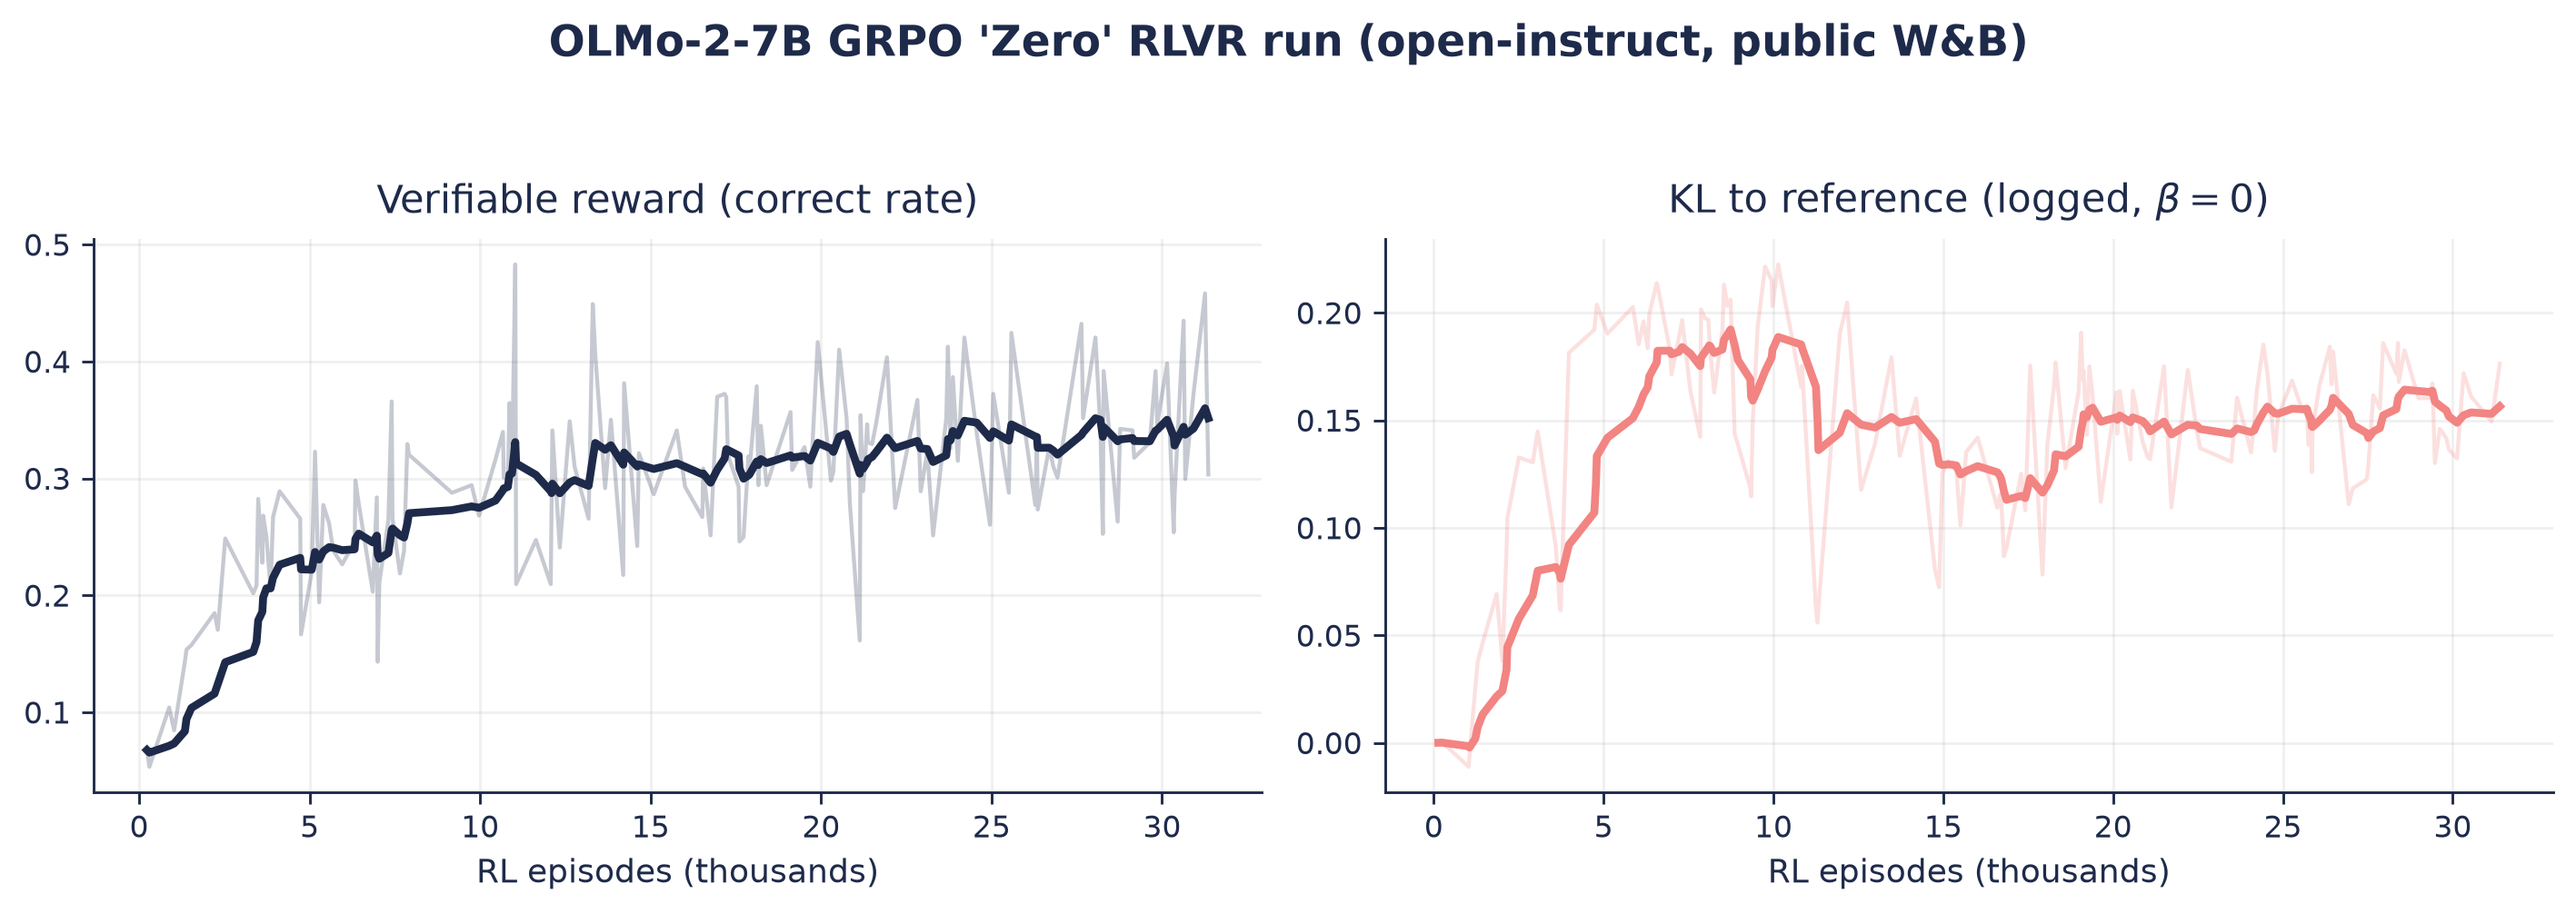
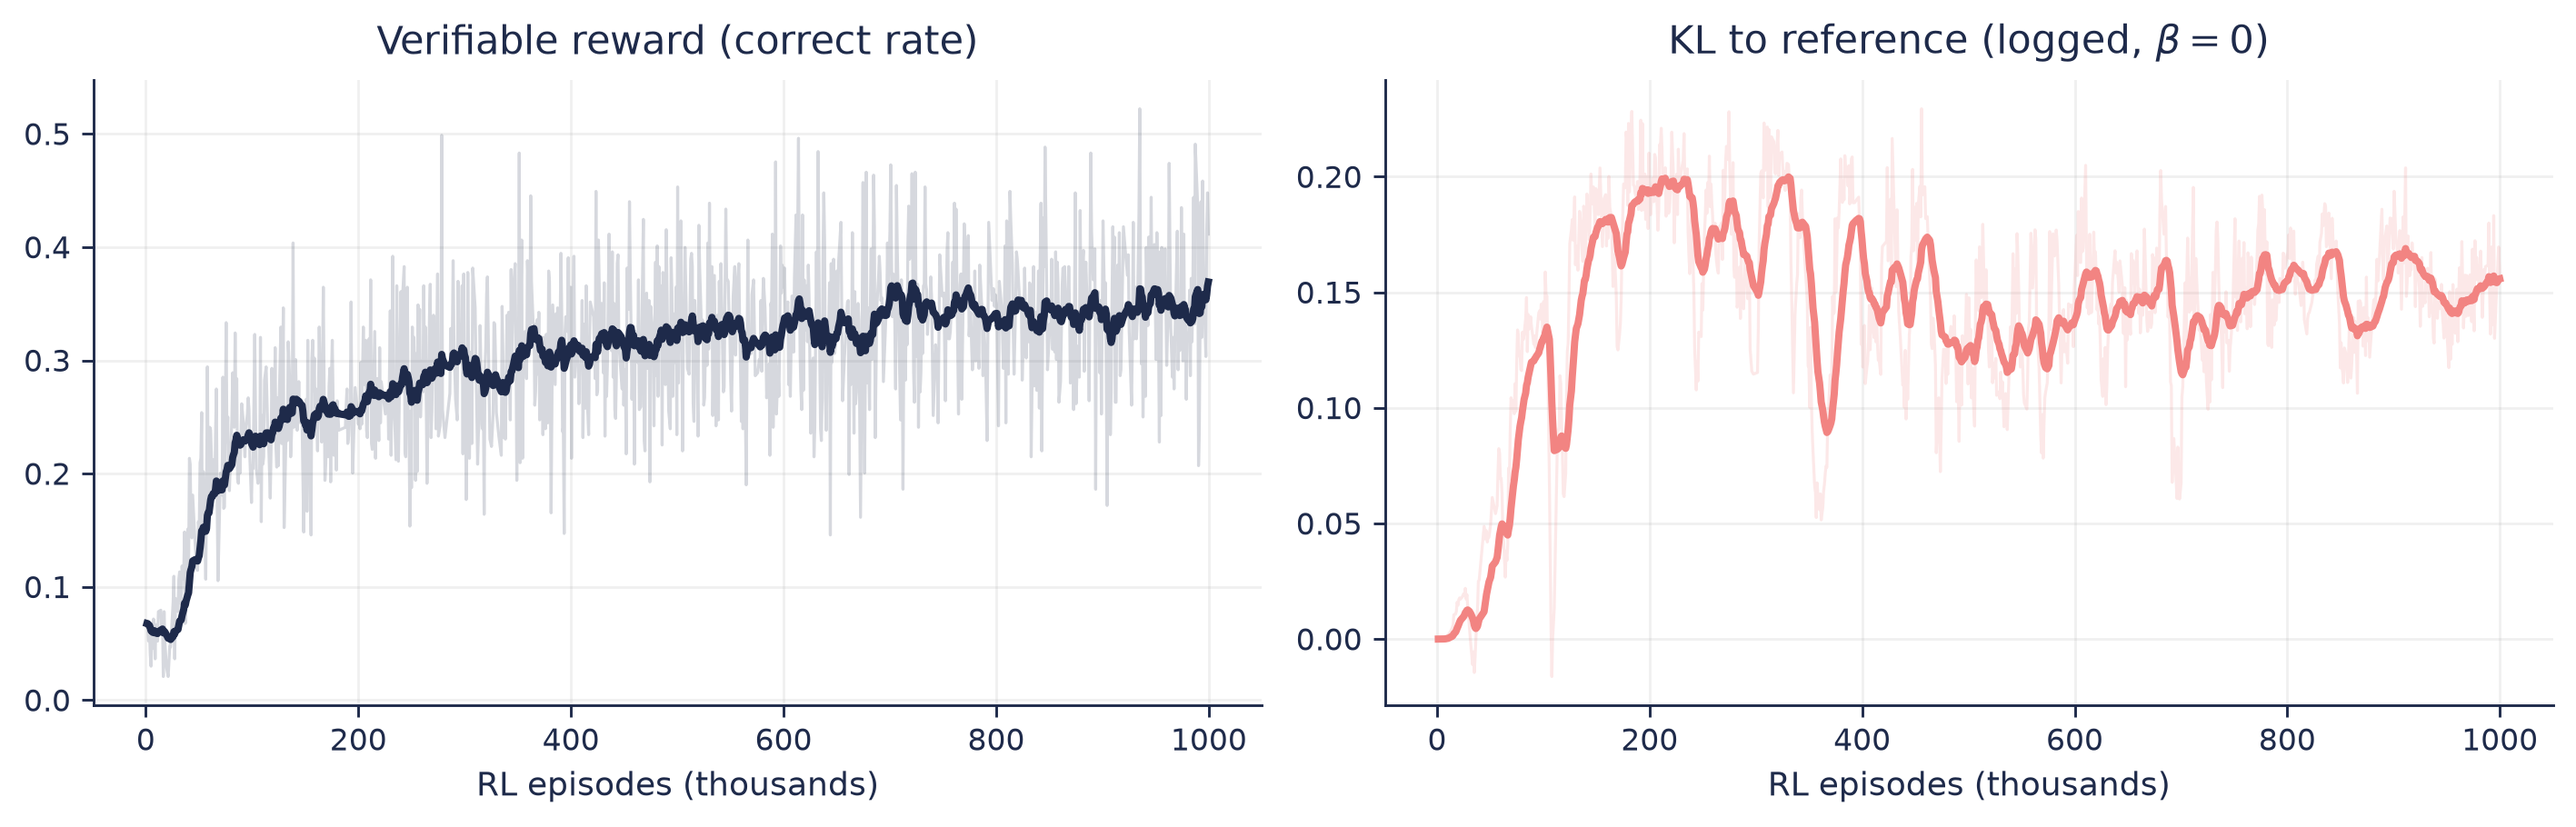
Lecture 10: full-run W&B curves (1M episodes), reverse-KL-minimization title

diff --git a/teach/course/lec10-chap15-regularization.md b/teach/course/lec10-chap15-regularization.md
@@ -183,8 +183,8 @@ kl_approx = token_lp.sum(-1) - ref_token_lp.sum(-1)
 
 ![](assets/olmo2-grpo-zero-reward-kl.png)
 
-- An OLMo-2-7B RL-Zero-style GRPO run from open-instruct ([public W&B logs](https://wandb.ai/ai2-llm/open_instruct_public/reports/OLMo-2-7B-GRPO-Fast-Zero--VmlldzoxMjA0MjU4MQ)): the verifiable reward climbs while the logged KL to the reference drifts up and wanders. This run has **β = 0** -- nothing pulls the KL back; it is purely a diagnostic.
-- This is the healthy shape. A KL curve that bends sharply upward while reward jumps usually means the policy found a bug or a hack, not a capability.
+An OLMo-2-7B GRPO run, RL directly on the *base* model (R1-Zero-style, no SFT), from open-instruct ([public W&B logs](https://wandb.ai/ai2-llm/open_instruct_public/reports/OLMo-2-7B-GRPO-Fast-Zero--VmlldzoxMjA0MjU4MQ)): over ~1M episodes the verifiable reward climbs while the logged KL to the reference rises and then wanders. This run has **β = 0**.
+This is a healthy shape.
 
 ---
 
@@ -202,6 +202,18 @@ $$ e_t = \operatorname{clip}\!\left( \frac{\mathrm{KL}(\pi_t, \pi_{\text{ref}}) 
 - The idea is older than RLHF: PPO's original **adaptive KL penalty** variant doubled or halved β around a target [@schulman2017proximal], and constrained RL later made the controls framing explicit with full **PID controllers** on the penalty multiplier [@stooke2020responsive].
 - Modern practice swung back to a small **static** β -- or, in many RLVR reasoning recipes, no KL term at all.
 
+---
+
+<!-- valign: center -->
+<!-- cite-right: ziegler2019fine -->
+<!-- animate: bullets -->
+
+## Static or dynamic KL penalties? β began as a feedback controller
+
+The first RLHF-on-LMs paper did not fix β. It picked a **target KL** and let a controller chase it:
+
+$$ e_t = \operatorname{clip}\!\left( \frac{\mathrm{KL}(\pi_t, \pi_{\text{ref}}) - \mathrm{KL}_{\text{target}}}{\mathrm{KL}_{\text{target}}},\, -0.2,\, 0.2 \right), \qquad \beta_{t+1} = \beta_t \left(1 + K_\beta\, e_t\right) $$
+
 Read the code: [the original controller](https://github.com/openai/lm-human-preferences/blob/cbfd210bb8b08f6bc5c26878c10984b90f516c66/lm_human_preferences/train_policy.py#L115-L124) (lm-human-preferences, 2019) · [TRL's `AdaptiveKLController`](https://github.com/huggingface/trl/blob/v0.11.4/trl/trainer/utils.py#L54-L69) (v0.11.4 -- deleted in the modern rewrite) · [open-instruct today](https://github.com/allenai/open-instruct/blob/5b2ebfa12381925bb431845d588dbc9ebead20a7/open_instruct/grpo_utils.py#L104-L105): a static `beta = 0.05`, [applied directly in the loss](https://github.com/allenai/open-instruct/blob/5b2ebfa12381925bb431845d588dbc9ebead20a7/open_instruct/grpo_fast.py#L718).
 
 ---
@@ -209,7 +221,7 @@ Read the code: [the original controller](https://github.com/openai/lm-human-pref
 <!-- layout: section-break -->
 <!-- align: center -->
 
-## Part 2: RL optimization is a reverse KL
+## Part 2: RL optimization is a reverse KL minimization
 
 ---
 
